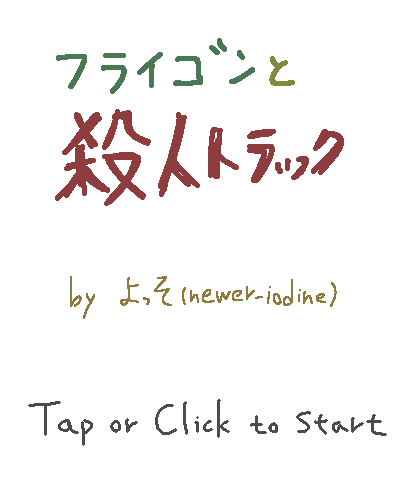
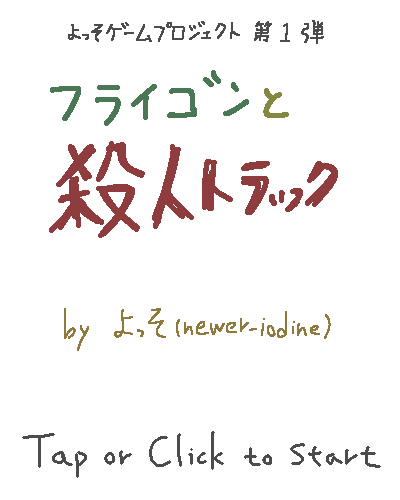
ファイルの更新

diff --git a/index.js b/index.js
@@ -105,7 +105,7 @@ function base_draw_process(){
 
 function title_draw_process(){
     gc.drawImage(imgFlygon,(cv.width-imgFlygon.width)*0.2, max_fy- imgFlygon.height, imgFlygon.width, imgFlygon.height);
-    gc.drawImage(imgTitle, (cv.width-imgTitle.width)*0.5, (cv.height-imgTitle.height)*0.8, imgTitle.width, imgTitle.height);
+    gc.drawImage(imgTitle, (cv.width-imgTitle.width)*0.5, (cv.height-imgTitle.height)*0.5, imgTitle.width, imgTitle.height);
     
     if(audio_trigger == false){
         gc.drawImage(imgMaudio, 0, 0, imgAudio.width, imgAudio.height)
